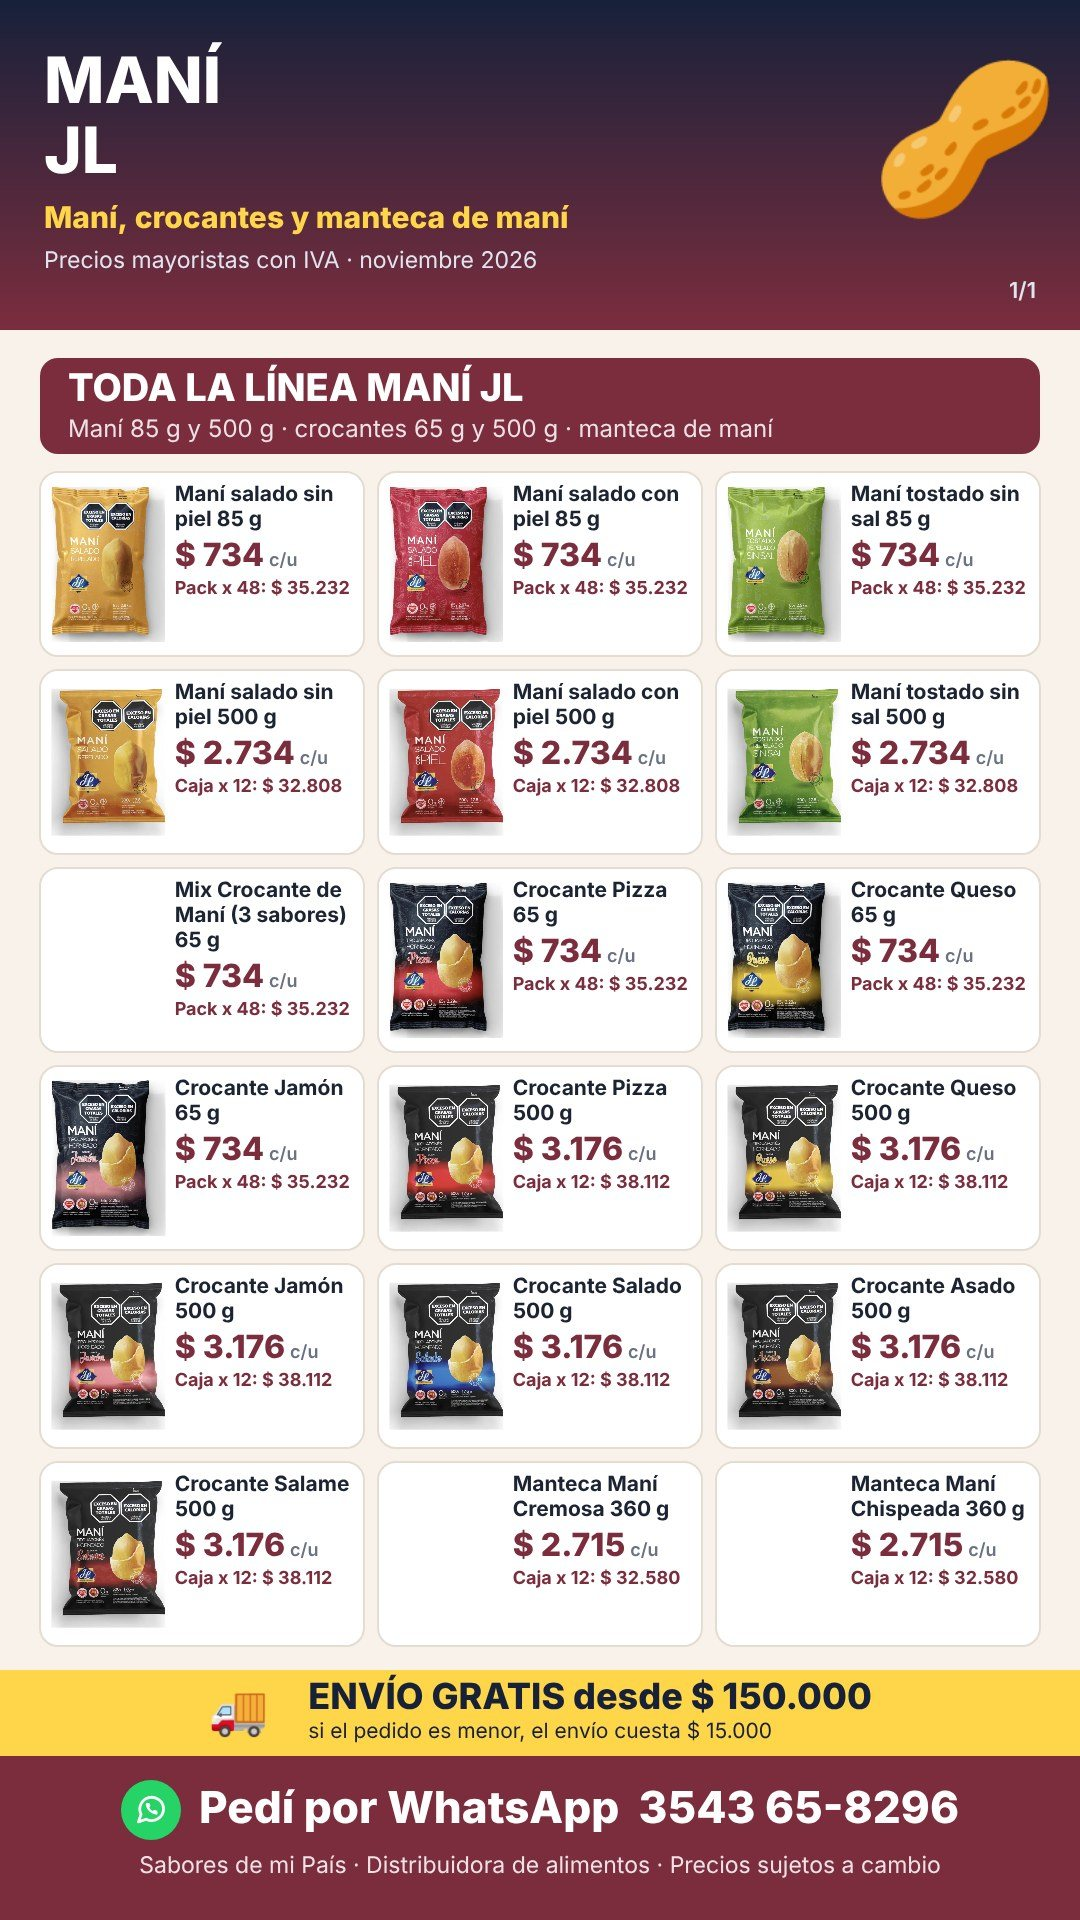
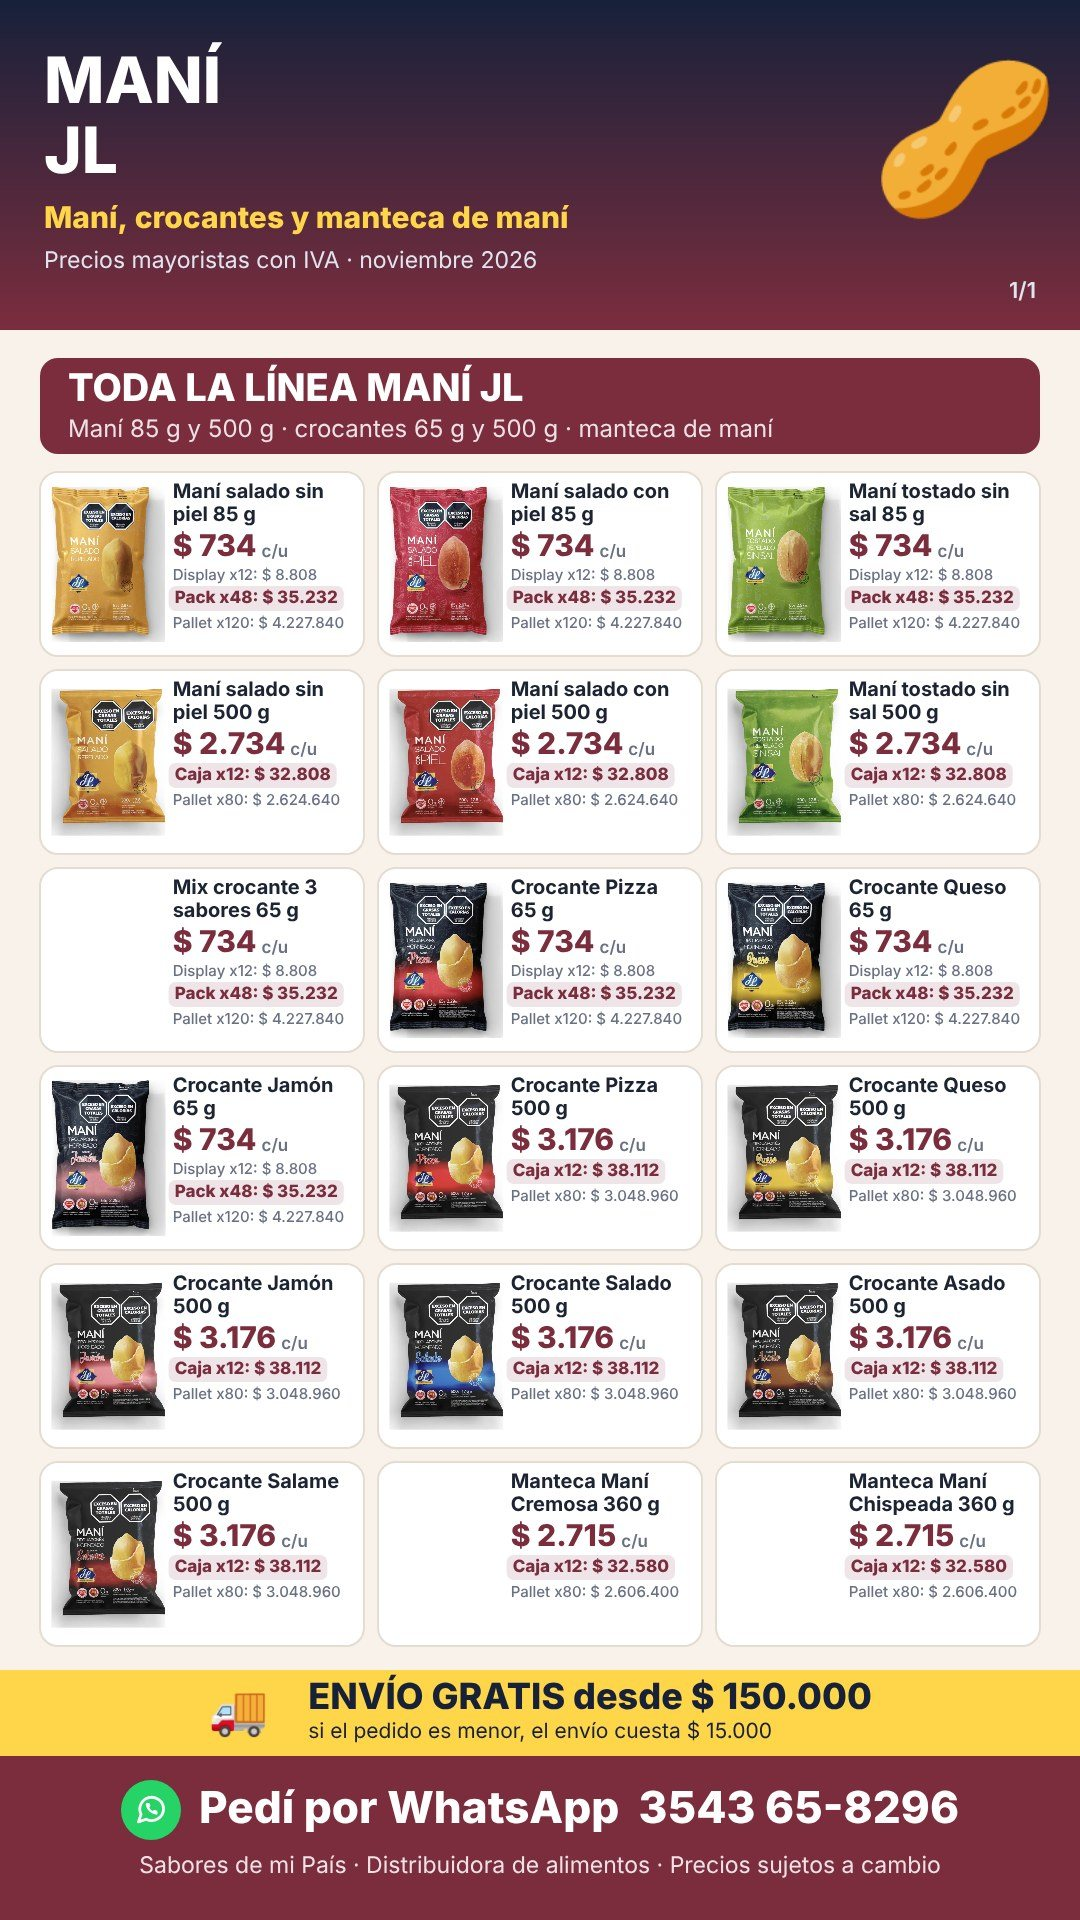
Folleto en una hoja: muestra display, pack/caja (resaltado) y pallet de cada producto
Claude-Session: https://claude.ai/code/session_01F2ua3VqBHHe3Pyje5FVk9T

diff --git a/extras.js b/extras.js
@@ -588,10 +588,15 @@ async function flArmar(f,prog){
         const COL=3,gap=14,cw=(W-80-gap*(COL-1))/COL,NR=Math.ceil(Q.L.length/COL),ch=(BOT-y-(NR-1)*gap)/NR,imgs=await Promise.all(Q.L.map(x=>flImg(x.foto,1)));
         Q.L.forEach((x,i)=>{const X=40+(i%COL)*(cw+gap),Y=y+Math.floor(i/COL)*(ch+gap);c.fillStyle='#fff';rrect(c,X,Y,cw,ch,18);c.fill();c.strokeStyle=FL.LIN;c.lineWidth=2;c.stroke();
           const iw=Math.min(ch-20,cw*.36),im=imgs[i];if(im){const k=Math.min(iw/im.width,(ch-20)/im.height);c.drawImage(im,X+10+(iw-im.width*k)/2,Y+(ch-im.height*k)/2,im.width*k,im.height*k)}
-          const tx=X+iw+18,tw=cw-iw-28;c.textBaseline='top';c.fillStyle=FL.TXT;let fs=21;c.font=`700 ${fs}px ${FONT}`;let NL=flLineas(c,x.n.replace(/^Crocante Horneado sabor /,'Crocante ').replace(/ pelado sin sal/,' sin sal'),tw,3);
-          NL.forEach((l,j)=>c.fillText(l,tx,Y+12+j*25));const py=Y+12+NL.length*25+6;
-          c.fillStyle=MARCA.c;c.font=`800 32px ${FONT}`;const pt=flPes(x.p);c.fillText(pt,tx,py);const pw=c.measureText(pt).width;c.fillStyle=FL.GRI;c.font=`600 18px ${FONT}`;c.fillText(x.suf,tx+pw+5,py+12);
-          const D=x.dets||(x.det?[x.det]:[]),dt=D.find(t=>!/^(Display|Pallet)/i.test(t))||D[0];if(dt){let fz=18;c.font=`700 ${fz}px ${FONT}`;while(c.measureText(dt).width>tw&&fz>13){fz--;c.font=`700 ${fz}px ${FONT}`}let t=dt;while(c.measureText(t).width>tw&&t.length>6)t=t.slice(0,-2);c.fillStyle=MARCA.c;c.fillText(t,tx,py+40)}})}
+          const tx=X+iw+16,tw=cw-iw-24;c.textBaseline='top';c.fillStyle=FL.TXT;c.font=`700 20px ${FONT}`;
+          const nm=x.n.replace(/^Crocante Horneado sabor /,'Crocante ').replace(/ pelado sin sal/,' sin sal').replace(/^Mix Crocante de Maní \(3 sabores\)/,'Mix crocante 3 sabores');let NL=flLineas(c,nm,tw,2);
+          NL.forEach((l,j)=>c.fillText(l,tx,Y+10+j*23));let py=Y+10+NL.length*23+4;
+          c.fillStyle=MARCA.c;c.font=`800 30px ${FONT}`;const pt=flPes(x.p);c.fillText(pt,tx,py);const pw=c.measureText(pt).width;c.fillStyle=FL.GRI;c.font=`600 17px ${FONT}`;c.fillText(x.suf,tx+pw+5,py+11);py+=36;
+          /* debajo del precio: display, pack/caja (resaltado) y pallet, en corto para que entren */
+          const D=(x.dets||(x.det?[x.det]:[])).map(t=>t.replace(/ x (\d+)/,' x$1').replace(/^Pallet x(\d+) [^:]+:/,'Pallet x$1:'));
+          D.forEach(t=>{const fuerte=!/^(Display|Pallet)/i.test(t);let fz=fuerte?17:15;c.font=`${fuerte?800:500} ${fz}px ${FONT}`;while(c.measureText(t).width>tw-(fuerte?12:0)&&fz>12){fz--;c.font=`${fuerte?800:500} ${fz}px ${FONT}`}
+            if(fuerte){const w=c.measureText(t).width;c.fillStyle=/^#[0-9a-f]{6}$/i.test(MARCA.c)?MARCA.c+'1f':'rgba(123,45,62,.12)';rrect(c,tx-4,py-3,w+12,fz+8,7);c.fill();c.fillStyle=MARCA.c}else c.fillStyle=FL.GRI;
+            c.fillText(t,tx+(fuerte?2:0),py);py+=fuerte?fz+10:fz+6})})}
       else{let y=TOP;for(const r of Q.rows){
         if(r.sec){c.fillStyle=MARCA.c;rrect(c,40,y+14,W-80,70-22,14);c.fill();c.fillStyle='#fff';c.textBaseline='middle';c.font=`800 28px ${FONT}`;c.fillText(r.sec.toUpperCase(),64,y+14+24);y+=70;continue}
         c.fillStyle='#fff';rrect(c,40,y+4,W-80,80-8,14);c.fill();const pt=flPes(r.p);c.font=`800 38px ${FONT}`;const pw=c.measureText(pt).width;c.font=`600 22px ${FONT}`;const sw=c.measureText(r.suf).width;

diff --git a/index.html b/index.html
@@ -2010,6 +2010,6 @@ html.oscuro .li-c{background:#18202f}html.oscuro .ar-i .ni-x{background:rgba(0,0
 <div id="app"><div class="splash"><img src="logo.png" alt="Sabores de mi País"><i></i></div></div><div id="t"></div>
 <script src="https://cdn.jsdelivr.net/npm/@supabase/supabase-js@2.45.4/dist/umd/supabase.min.js"></script>
 <script src="familias.js"></script>
-<script src="app.js?v=2026-11-01.9"></script>
+<script src="app.js?v=2026-11-01.10"></script>
 </body>
 </html>

diff --git a/app.js b/app.js
@@ -1,5 +1,5 @@
 
-const VERSION='2026-11-01.9';
+const VERSION='2026-11-01.10';
 /* Siempre la última versión: si hay una más nueva publicada, recarga sola (sin Ctrl+F5) */
 /* Se fija en version.json (unos pocos bytes) en vez de volver a bajar toda la página */
 (function(){try{const u=new URL(location.href);fetch('version.json?nc='+Date.now(),{cache:'no-store'}).then(r=>r.ok?r.json():null).then(j=>{const v=j&&j.crm;
